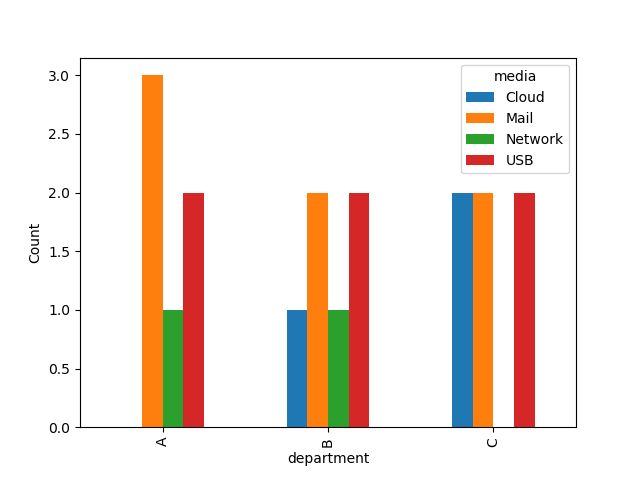
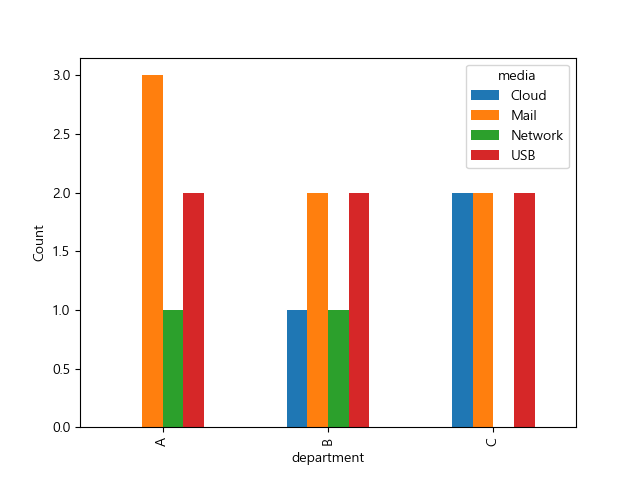
add korean encoding
add korean encoding

diff --git a/reason_table/reason_table.py b/reason_table/reason_table.py
@@ -2,6 +2,7 @@ import pandas
 import pymysql
 import getpass
 import matplotlib.pylab as plt
+from matplotlib import font_manager, rc
 from pylab import figure, axes, pie, title, savefig
 import operator
 
@@ -21,10 +22,13 @@ DF = pandas.DataFrame(list(data), None, titles)
 #print(DF)
 
 con.close()
+# -------------------------------------------------------------------------------------------------     Pivot Table / Graph
+font_location = "C:\Windows\Fonts\malgunbd.ttf"
+font_name = font_manager.FontProperties(fname = font_location).get_name()
+rc('font', family = font_name)
 
 PT = pandas.pivot_table(DF, index = "department", columns = ["media"], values = "serious", aggfunc = "count")
-print(PT)
-
+#print(PT)
 
 PT.plot(kind = 'Bar')
 plt.ylabel("Count")
@@ -37,10 +41,11 @@ medias = list(set(DF["media"]))
 seriouses = list(set(DF["serious"]))
 PT_media = DF.pivot_table(columns = "media", values = "serious", aggfunc = "count")
 PT_serious = pandas.pivot_table(DF, columns = "serious", values = "media", aggfunc = "count")
-print(PT_media)
+#print(PT_media)
 for media in medias:
     print("media(%s) - " %media, end = "")
     print(PT_media[media][0])
+print("")
 for serious in seriouses:
     print("serious(%s) - " %serious, end = "")
     print(PT_serious[serious][0])
@@ -48,7 +53,7 @@ for serious in seriouses:
 parts = list(set(DF["department"]))
 part_top = {}
 PT = DF.pivot_table(columns = "department", values = "serious", aggfunc = "sum")
-print(PT)
+#print(PT)
 for i in range(len(parts)):
     part_top[parts[i]] = []
     part_top[parts[i]].append(PT[parts[i]][0])

diff --git a/Machine_Learning/Bag of word.py b/Machine_Learning/Bag of word.py
@@ -1,0 +1,8 @@
+import numpy
+import sys
+from sklearn.feature_extracion.text import CountVectorizer
+#pip install sklearn
+#pip install scipy
+
+
+count = CountVectorizer
